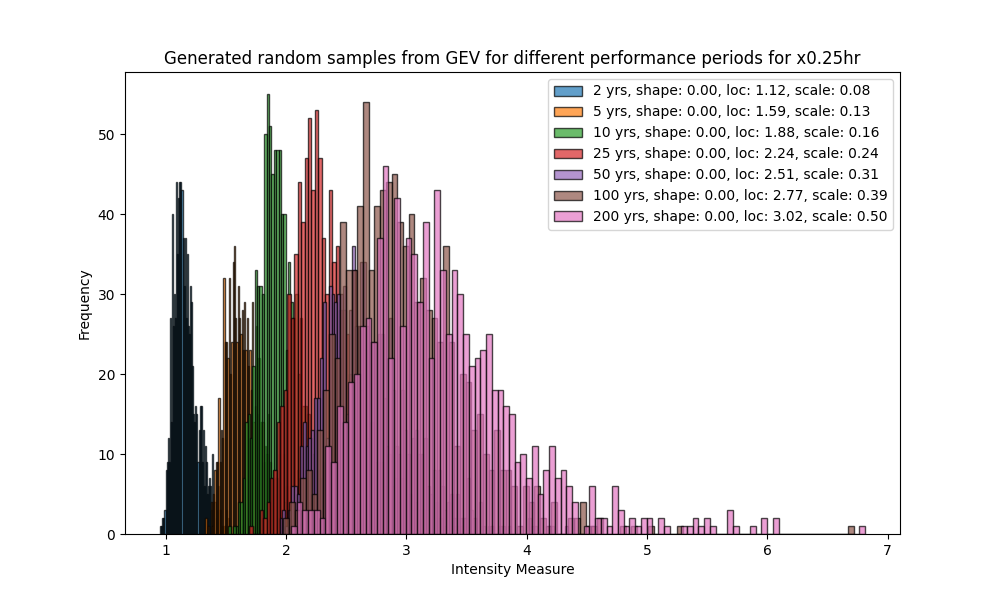
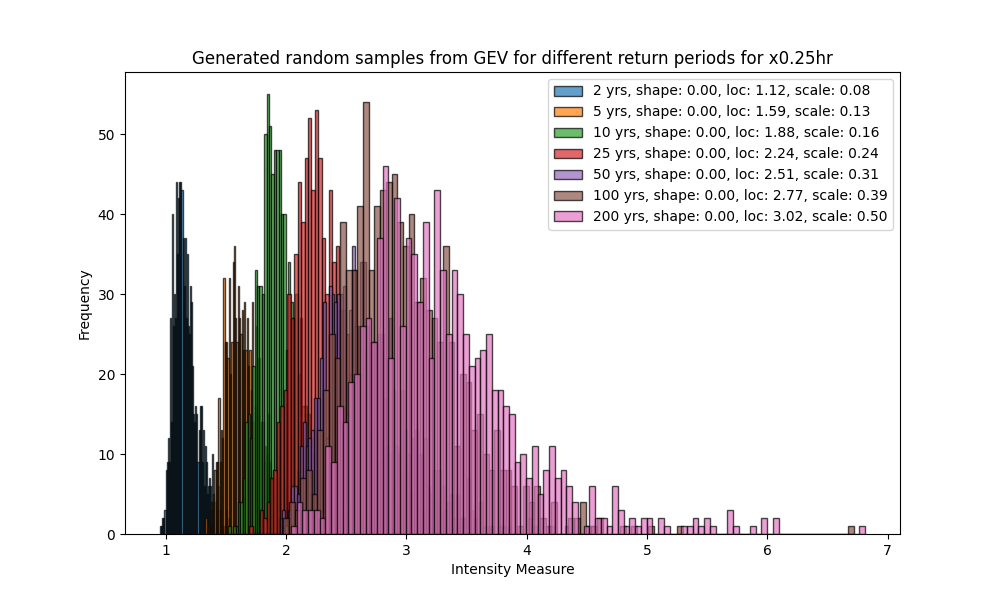
fix typo - perform to return

Changed region(s): [[0.155, 0.06, 0.868, 0.12]]

diff --git a/studies/reliability/SB i_mean design performance period fragility risk hazard/SB risk conf interval (rand < frag. prob.)/sample_generation.py b/studies/reliability/SB i_mean design performance period fragility risk hazard/SB risk conf interval (rand < frag. prob.)/sample_generation.py
@@ -69,11 +69,11 @@ for (i, duration) in enumerate(columns):
     for (j, window_size) in enumerate(window_sizes):
         duration_window_wise(window_size, duration)
 
-    plt.title(f'Generated random samples from GEV for different performance periods for {duration}')
+    plt.title(f'Generated random samples from GEV for different return periods for {duration}')
     plt.xlabel('Intensity Measure')
     plt.ylabel('Frequency')
     plt.legend()
-    plt.savefig(f'studies/reliability/SB i_mean design performance period fragility risk hazard/SB risk conf interval/Random_samples_from_GEV_distribution_{duration}.png')    
+    plt.savefig(f'studies/reliability/SB i_mean design performance period fragility risk hazard/SB risk conf interval (rand < frag. prob.)/Random_samples_from_GEV_distribution_{duration}.png')    
 
 for (i, duration) in enumerate(columns):
 
@@ -85,4 +85,4 @@ for (i, duration) in enumerate(columns):
         plt.xlabel('Intensity Measure')
         plt.ylabel('Frequency')
         plt.legend()
-        plt.savefig(f'studies/reliability/SB i_mean design performance period fragility risk hazard/SB risk conf interval/Random_samples_from_GEV_distribution_{window_size}_yr_{duration}.png')    
+        plt.savefig(f'studies/reliability/SB i_mean design performance period fragility risk hazard/SB risk conf interval (rand < frag. prob.)/Random_samples_from_GEV_distribution_{window_size}_yr_{duration}.png')    
